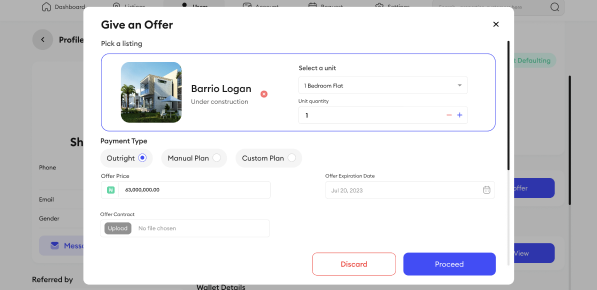
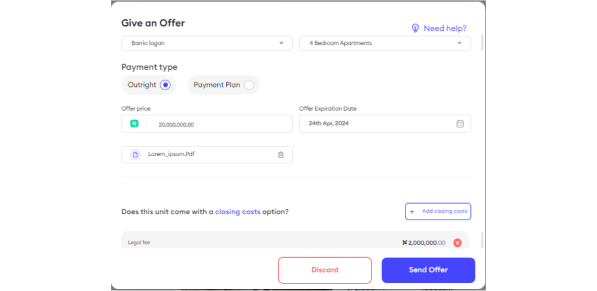
update: content update

diff --git a/src/pages/lead&account/sendAnOffer/sendAnOffer.js b/src/pages/lead&account/sendAnOffer/sendAnOffer.js
@@ -62,17 +62,17 @@ const SendAnOffer = () => {
           <Text as="p" marginTop={'30px'}>
             In the realm of real estate transactions, negotiation often plays a pivotal role. Within
             this landscape, the price displayed on the user’s application most times is not set in
-            stone for the development company—it's subject to negotiation. This is where 'Private
-            Offer' feature comes into play. Imagine a potential buyer spotting a property on your
-            application and desiring to explore a deal more aligned with their preferences. In such
-            cases, they can interact with the chatbot or get in touch via phone to initiate
-            negotiations.
+            stone for the development company— it's subject to negotiation. This is where '
+            <b>Private Offer</b>' feature comes into play. Imagine a potential buyer spotting a
+            property on your application and desiring to explore a deal more aligned with their
+            preferences. In such cases, they can interact with the chatbot or get in touch via phone
+            to initiate negotiations.
           </Text>
           <Text as="p" marginTop="20px">
-            Should the development company entertain the offered price, they will generate a
-            'Private Offer' tailored to the negotiated terms. This confidential proposition grants
-            the prospective buyer access to a personalized deal beyond what's publicly listed on the
-            application.
+            Should the development company entertain the offered price, they will generate a '
+            <b>Private Offer</b>' tailored to the negotiated terms. This confidential proposition
+            grants the prospective buyer access to a personalized deal beyond what's publicly listed
+            on the application.
           </Text>
           <Text as="p" marginTop="20px">
             Navigating this process involves several steps which will be outlined below:
@@ -93,7 +93,7 @@ const SendAnOffer = () => {
             STEP 2
           </Text>
           <Text className="content">
-            Scroll drown to select the <b>'Give an Offer'</b> button.
+            Click on the <b>“View details”</b> button to enter the user’s full profile.{' '}
           </Text>
 
           <Image src={sendOffer2} mt="30px" mx="auto" w="full" />
@@ -103,9 +103,8 @@ const SendAnOffer = () => {
             STEP 3
           </Text>
           <Text className="content">
-            Proceed to specify key details. This includes selecting the listing and unit in
-            question. Depending on the payment structure—outright purchase or payment plan—you'll
-            define the payment type accordingly.
+            Click on the <b>“More options”</b> button at the upper right corner of the screen and
+            then select <b>“Give an offer.”</b>
           </Text>
           <Image src={sendOffer3} mt="30px" mx="auto" w="full" />
         </Box>
@@ -114,42 +113,15 @@ const SendAnOffer = () => {
             STEP 4
           </Text>
           <Text className="content">
-            For outright purchases, input the negotiated amount. If it's a payment plan, you'll need
-            to provide the initial deposit, outline instalment payments along with their due dates,
-            and set an expiration date for the offer.
+            Fill the input fields with the correctly and then click <b>“Send Offer.”</b>
           </Text>
 
           <Image src={sendOffer4} mt="30px" mx="auto" w="full" />
-        </Box>
-        <Box>
-          <Text className="content_head" mt="40px">
-            STEP 5
-          </Text>
-          <Text className="content">
-            Essential for formalizing the negotiation, the purchase agreement is uploaded at this
-            juncture.
-          </Text>
-
-          <Image src={sendOffer5} mt="30px" mx="auto" w="full" />
-        </Box>
-        <Box>
-          <Text className="content_head" mt="40px">
-            STEP 6
-          </Text>
-          <Text className="content">
-            With all pertinent information in place, you can now dispatch the offer for
-            consideration.
-          </Text>
-          <Image src={sendOffer6} mt="30px" mx="auto" w="full" />
           <Text className="content" mt="30px">
-            {/* Once dispatched, the offer enters a 'Pending' status within the profile. Its
-            progression hinges on the potential buyer either submitting the initial deposit or
-            upon the offer's expiration date, beyond which it ceases to be valid. This
-            streamlined process empowers both buyers and sellers in their quest for a
-            mutually beneficial real estate arrangement. */}
-            After sending the offer, it's labeled as 'Pending' in the profile. It moves forward when
-            the buyer either pays the initial deposit or until the offer expires. This simple
-            process helps both buyers and sellers find a good real estate deal.
+            You will receive a prompt to notify you that your private offer has successfully been
+            sent. After sending the offer, it's labeled as 'Pending' in the profile. It moves
+            forward when the buyer either pays the initial deposit or until the offer expires. This
+            simple process helps both buyers and sellers find a good real estate deal
           </Text>
         </Box>
       </Box>

diff --git a/src/pages/lead&account/HomeOwnersPacket/HomeOwnersPacket.js b/src/pages/lead&account/HomeOwnersPacket/HomeOwnersPacket.js
@@ -2,7 +2,10 @@ import React, {useRef} from 'react';
 import {Box, Text, Image} from '@chakra-ui/react';
 import homeOwner1 from '../../../assets/images/homeOwners/home-owners-packet-1.png';
 import homeOwner2 from '../../../assets/images/homeOwners/home-owners-packet-2.png';
-import homeOwner3 from '../../../assets/images/homeOwners/home-owners-packet-3.png';
+// import homeOwner3 from '../../../assets/images/homeOwners/home-owners-packet-3.png';
+import homeOwner3_1 from '../../../assets/images/homeOwners/home-owners-packet-3-1.png';
+import homeOwner3_2 from '../../../assets/images/homeOwners/home-owners-packet-3-2.png';
+import homeOwner4 from '../../../assets/images/homeOwners/home-owners-packet-4.png';
 import QuestionsAndReplies from '../../../components/Faq/QuestionsAndReplies';
 import LeftNav from '../../../components/Leftsidenav/Leftsidenav';
 import Helpful from '../../../components/Faq/Helpful';
@@ -132,7 +135,7 @@ const HomeOwnersPacket = () => {
             <li style={{fontWeight: '700'}}>Home inspection report</li>
           </Text>
           <Text className="content">
-            If a home inspection was conducted, thisreport will comprehensively detail the
+            If a home inspection was conducted, this report will comprehensively detail the
             property's condition and highlight any issues identified during the inspection.
           </Text>
         </Box>
@@ -221,8 +224,7 @@ const HomeOwnersPacket = () => {
             STEP 2
           </Text>
           <Text className="content">
-            Click on the chosen property, then proceed to the upper right corner and access the
-            dropdown menu.
+            Click on the “View details” button to enter the user’s full profile.
           </Text>
 
           <Image src={homeOwner2} mt="30px" mx="auto" w="full" />
@@ -233,11 +235,24 @@ const HomeOwnersPacket = () => {
             STEP 3
           </Text>
           <Text className="content">
-            Choose the <b>"Upload Homeowner's Packet"</b> option, proceed to upload the PDF
-            document, and finalize the process by clicking "Proceed."
+            Click on the “<b>View transactions</b>” button of the chosen property, and then proceed
+            to the upper right corner and click the “<b>More options</b>” menu button."
           </Text>
 
-          <Image src={homeOwner3} mt="30px" mx="auto" w="full" />
+          <Image src={homeOwner3_1} mt="30px" mx="auto" w="full" />
+          <Image src={homeOwner3_2} mt="30px" mx="auto" w="full" />
+        </Box>
+
+        <Box>
+          <Text className="content_head" mt="40px">
+            STEP 4
+          </Text>
+          <Text className="content">
+            Choose the "<b>Home owner's Packet</b>" option, and then proceed to upload the PDF
+            document.
+          </Text>
+
+          <Image src={homeOwner4} mt="30px" mx="auto" w="full" />
         </Box>
       </Box>
 

diff --git a/src/pages/lead&account/Createaccount/Createaccount.js b/src/pages/lead&account/Createaccount/Createaccount.js
@@ -67,7 +67,7 @@ export const CreateLeadAccount = () => {
     <div className="main">
       <LeadRightNav />
       <Box w="full">
-        <Text className="head_">Create aN ACCOUNT</Text>
+        <Text className="head_">CREATE AN ACCOUNT</Text>
         <Text className="publish">Published: March 26, 2023</Text>
         <LeftNav articleContent={articleContent} relatedContent={relatedContent} />
         <Box id="how_to" ref={how_toRef}>
@@ -96,7 +96,7 @@ export const CreateLeadAccount = () => {
           <Box>
             <Text className="content_head">STEP 1</Text>
             <Text className="content">
-              Begin by navigating to the designated <b>"Users"</b> section within the system.
+              Begin by navigating to the designated "<b>Users</b>" section within the system.
             </Text>
 
             <Image src={createLead1} mt="30px" mx="auto" w="full" />
@@ -151,13 +151,13 @@ export const CreateLeadAccount = () => {
               </Text>
               {/* <Image src={createLead6} mt="30px" mx="auto" w='full' /> */}
               <Text className="content" marginTop={'20px'}>
-                <b>
-                  In parallel scenarios where clients make property purchases external to the
-                  application, the onboarding process presents distinct requirements. One frequent
-                  scenario involves new entrants to the Veerge platform, particularly property
-                  development firms aiming to integrate their existing clientele. For such
-                  scenarios, a specialized set of steps is vital:
-                </b>
+                {/* <b> */}
+                In parallel scenarios where clients make property purchases external to the
+                application, the onboarding process presents distinct requirements. One frequent
+                scenario involves new entrants to the Veerge platform, particularly property
+                development firms aiming to integrate their existing clientele. For such scenarios,
+                a specialized set of steps is vital:
+                {/* </b> */}
               </Text>
             </Box>
             <Box>
@@ -265,8 +265,9 @@ export const CreateLeadAccount = () => {
               </Text>
               <Image src={createLeadS11} mt="30px" mx="auto" w="full" />
               <Text className="content" mt="30px">
-                In both lead creation and property assignment scenarios, paying close attention to
-                detail and following the prescribed steps are crucial to ensure accuracy.
+                In both lead management and property acquisition scenarios, meticulous attention to
+                detail and adherence to the prescribed steps are imperative for ensuring accuracy,
+                enhancing user experience, and optimizing sales efficacy
               </Text>
             </Box>
           </Box>
